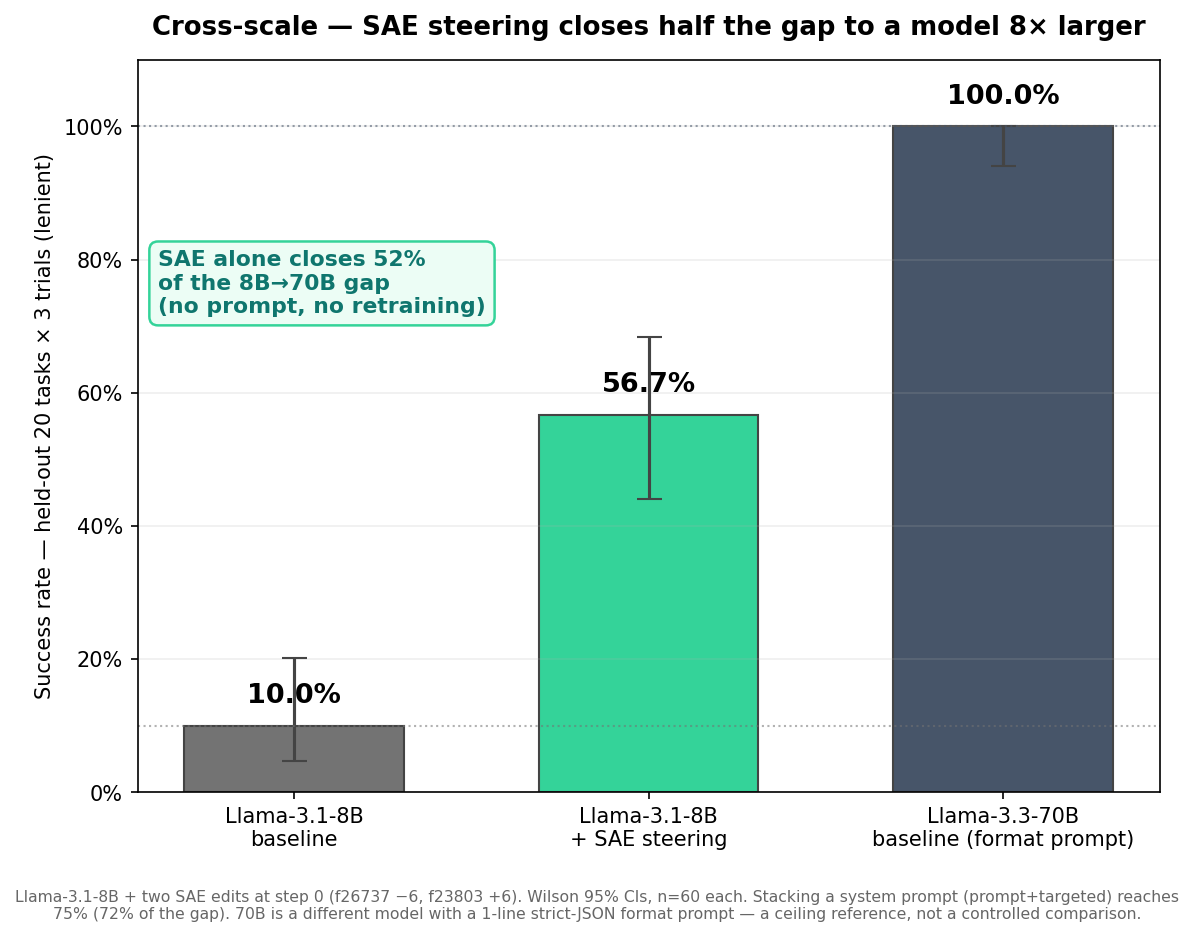
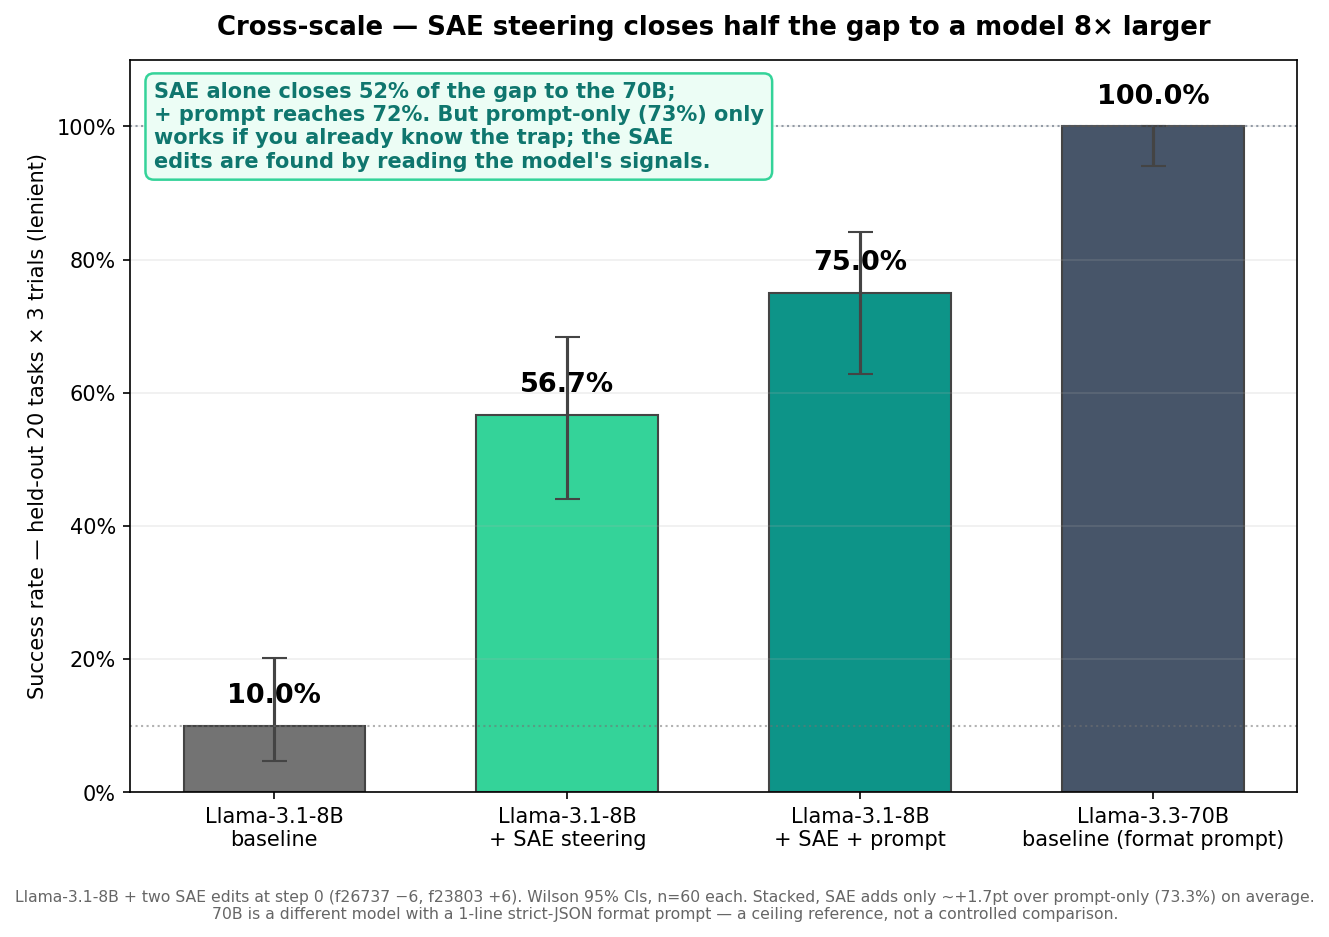
charts: add prompt+targeted to headline + cross-scale ladder
Headline left panel now shows targeted (SAE-alone, 56.7%) and prompt+targeted (75%, teal); right panel adds prompt+targeted per category (rescues planning to ~67%). Cross-scale becomes a 4-bar ladder: 8B baseline -> +SAE -> +SAE+prompt -> 70B, data-driven from seed_manifest.json.

Changed region(s): [[0.0, 0.0, 0.9916, 0.9904], [0.9296, 0.0619, 0.9916, 0.8356], [0.8367, 0.1547, 0.8677, 0.1857]]

diff --git a/bench/make_chart.py b/bench/make_chart.py
@@ -31,15 +31,18 @@ OUT_PATH = Path("artifacts/headline.png")
 # putting it on the SAE-causal chart muddies the comparison. It remains fully
 # documented in the README cross-method table + "when does SAE beat prompt"
 # section.
-POLICY_ORDER = ["baseline", "wrong-sign", "random", "noise", "targeted"]
+POLICY_ORDER = ["baseline", "wrong-sign", "random", "noise", "targeted", "prompt-plus-targeted"]
 COLORS = {
-    "baseline":     "#737373",  # zinc-500
-    "wrong-sign":   "#a78bfa",  # violet-400
-    "random":       "#fb923c",  # orange-400
-    "noise":        "#38bdf8",  # sky-400
-    "prompt-only":  "#60a5fa",  # blue-400
-    "targeted":     "#34d399",  # emerald-400
+    "baseline":             "#737373",  # zinc-500
+    "wrong-sign":           "#a78bfa",  # violet-400
+    "random":               "#fb923c",  # orange-400
+    "noise":                "#38bdf8",  # sky-400
+    "prompt-only":          "#60a5fa",  # blue-400
+    "targeted":             "#34d399",  # emerald-400
+    "prompt-plus-targeted": "#0d9488",  # teal-600 (SAE edits + prompt, stacked best)
 }
+# Short display names for x-axis ticks + legend (policy keys are verbose).
+DISPLAY = {"prompt-plus-targeted": "prompt+targeted"}
 
 
 def _wilson(s: int, n: int) -> tuple[float, float]:
@@ -93,10 +96,11 @@ def make_cross_scale() -> None:
 
     Data-driven from artifacts/seed_manifest.json (the same artifact
     bench/artifact_check.py validates), so the bars cannot silently drift
-    from the published numbers. Shows the SAE-ALONE result (56.7%), not the
-    prompt-stacked 75%, because this chart is about what the SAE signal alone
-    buys a small model. The caption discloses the stacked number + the 70B
-    caveat so the conservative framing is explicit, not hidden."""
+    from the published numbers. Bars: 8B baseline, 8B + SAE (the SAE-alone
+    causal lift), 8B + SAE + prompt (stacked best), 70B baseline. The caption
+    + callout disclose that the +prompt bar is mostly the prompt (prompt-only
+    alone is 73.3%) and that the 70B is a different model with a format
+    prompt, so the framing stays honest."""
     import json
     import matplotlib.pyplot as plt
     import matplotlib.ticker as mtick
@@ -108,12 +112,14 @@ def make_cross_scale() -> None:
     series = [
         ("Llama-3.1-8B\nbaseline", hr["baseline"]["rate"], hr["baseline"]["wilson_ci_95"], "#737373"),
         ("Llama-3.1-8B\n+ SAE steering", hr["targeted"]["rate"], hr["targeted"]["wilson_ci_95"], "#34d399"),
+        ("Llama-3.1-8B\n+ SAE + prompt", hr["prompt-plus-targeted"]["rate"], hr["prompt-plus-targeted"]["wilson_ci_95"], "#0d9488"),
         ("Llama-3.3-70B\nbaseline (format prompt)", cs["rate"], cs["wilson_ci_95"], "#475569"),
     ]
     rates = [s[1] for s in series]
-    gap_closed = (rates[1] - rates[0]) / (rates[2] - rates[0])
+    gap_sae = (rates[1] - rates[0]) / (rates[-1] - rates[0])
+    gap_stack = (rates[2] - rates[0]) / (rates[-1] - rates[0])
 
-    fig, ax = plt.subplots(figsize=(7.8, 6.2))
+    fig, ax = plt.subplots(figsize=(8.8, 6.2))
     x = list(range(len(series)))
     yerr_lo = [s[1] - s[2][0] for s in series]
     yerr_hi = [s[2][1] - s[1] for s in series]
@@ -129,11 +135,14 @@ def make_cross_scale() -> None:
     # Gap guides: dashed lines at the 8B floor and the 70B ceiling so the
     # reader can see what fraction of that span the SAE bar fills.
     ax.axhline(rates[0], color="#737373", ls=":", lw=1, alpha=0.55)
-    ax.axhline(rates[2], color="#475569", ls=":", lw=1, alpha=0.55)
+    ax.axhline(rates[-1], color="#475569", ls=":", lw=1, alpha=0.55)
     ax.text(
-        0.02, 0.74,
-        f"SAE alone closes {gap_closed*100:.0f}%\nof the 8B→70B gap\n(no prompt, no retraining)",
-        transform=ax.transAxes, fontsize=10.5, fontweight="bold", color="#0f766e",
+        0.02, 0.97,
+        f"SAE alone closes {gap_sae*100:.0f}% of the gap to the 70B;\n"
+        f"+ prompt reaches {gap_stack*100:.0f}%. But prompt-only (73%) only\n"
+        f"works if you already know the trap; the SAE\n"
+        f"edits are found by reading the model's signals.",
+        transform=ax.transAxes, fontsize=10, fontweight="bold", color="#0f766e",
         va="top", ha="left",
         bbox=dict(boxstyle="round,pad=0.4", fc="#ecfdf5", ec="#34d399", lw=1.2),
     )
@@ -151,7 +160,7 @@ def make_cross_scale() -> None:
     fig.text(
         0.5, 0.005,
         "Llama-3.1-8B + two SAE edits at step 0 (f26737 −6, f23803 +6). Wilson 95% CIs, n=60 each. "
-        "Stacking a system prompt (prompt+targeted) reaches 75% (72% of the gap). 70B is a different "
+        "Stacked, SAE adds only ~+1.7pt over prompt-only (73.3%) on average. 70B is a different "
         "model with a 1-line strict-JSON format prompt — a ceiling reference, not a controlled comparison.",
         ha="center", fontsize=7.5, color="#666", wrap=True,
     )
@@ -186,7 +195,7 @@ def main() -> int:
         ci = _wilson(s, n)
         overall_rates.append(rate)
         overall_cis.append((rate - ci[0], ci[1] - rate))
-        overall_labels.append(f"{policy}\n(n={n})")
+        overall_labels.append(f"{DISPLAY.get(policy, policy)}\n(n={n})")
         overall_colors.append(COLORS.get(policy, "#888"))
 
     x = list(range(len(overall_rates)))
@@ -209,7 +218,7 @@ def main() -> int:
     ax_left.set_ylim(0, 1.0)
     ax_left.yaxis.set_major_formatter(mtick.PercentFormatter(1.0))
     ax_left.set_title(
-        "SAE steering vs controls — held-out 20 tasks × 3 trials",
+        "Success rate by policy — held-out 20 tasks × 3 trials",
         fontsize=12, pad=10,
     )
     ax_left.grid(axis="y", alpha=0.2)
@@ -252,7 +261,7 @@ def main() -> int:
             [xi + offset for xi in x], vals, width,
             color=COLORS.get(policy, "#888"),
             edgecolor="#444",
-            label=policy,
+            label=DISPLAY.get(policy, policy),
         )
         # Label only targeted bars to keep the chart legible
         if policy == "targeted":
@@ -284,8 +293,9 @@ def main() -> int:
     fig.text(
         0.5, 0.01,
         "Targeted = two SAE feature edits at step 0 (f26737 −6 + f23803 +6, position_mode=all). "
-        "Wilson 95% CIs. Controls isolate the causal direction of the edit. "
-        "Non-SAE prompt-only control (73.3%, wins on average) omitted for clarity; see README.",
+        "Wilson 95% CIs. prompt+targeted (75%) is mostly the prompt: prompt-only alone is 73.3%. But "
+        "prompt-only requires an instruction that already names the trap; the SAE edits were instead found "
+        "by reading the model's own activations, not by knowing the failure in advance. See README.",
         ha="center", fontsize=8, color="#666",
     )
     plt.tight_layout(rect=(0, 0.02, 1, 0.96))
